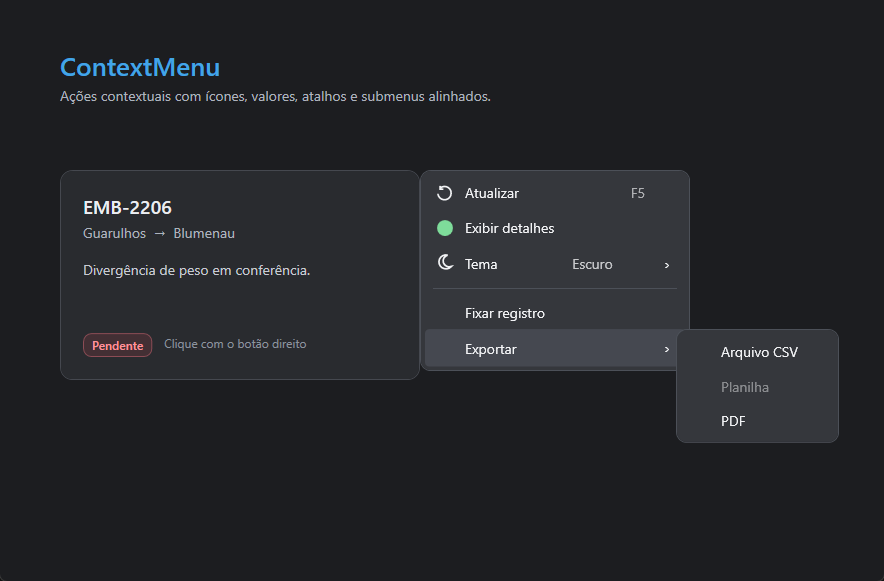
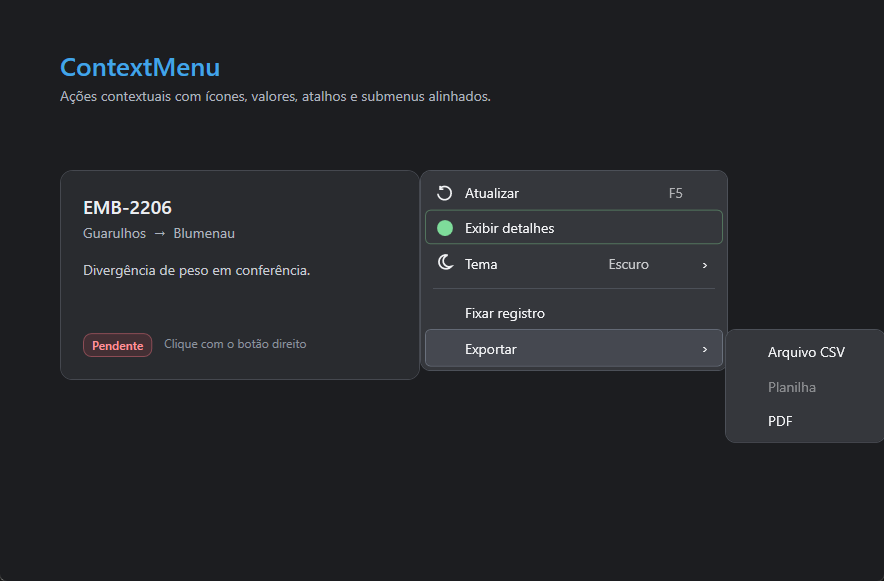
chore: prepara versão 0.4.0-preview.4

Changed region(s): [[0.7636, 0.2788, 1.0, 0.7745], [0.6414, 0.4337, 0.733, 0.4647], [0.7025, 0.3098, 0.733, 0.3408]]

diff --git a/samples/DLH.Controls.Wpf.Screenshots/ContextMenuScreenshotWindow.xaml.cs b/samples/DLH.Controls.Wpf.Screenshots/ContextMenuScreenshotWindow.xaml.cs
@@ -10,14 +10,28 @@ public partial class ContextMenuScreenshotWindow : Window
     {
         InitializeComponent();
         Loaded += OnLoaded;
+        Activated += (_, _) => Dispatcher.BeginInvoke(OpenMenu, DispatcherPriority.ContextIdle);
     }
 
-    private void OnLoaded(object? sender, RoutedEventArgs e)
+    private void OnLoaded(object? sender, RoutedEventArgs e) => OpenMenu();
+
+    private void OpenMenu()
     {
+        Menu.CollapseAll();
         Menu.PlacementTarget = TargetArea;
         Menu.Placement = System.Windows.Controls.Primitives.PlacementMode.Right;
         Menu.IsOpen = true;
-        Dispatcher.BeginInvoke(() => ExportItem.IsSubmenuOpen = true, DispatcherPriority.Loaded);
+        var submenuTimer = new DispatcherTimer(DispatcherPriority.Loaded)
+        {
+            Interval = TimeSpan.FromMilliseconds(350)
+        };
+        submenuTimer.Tick += (_, _) =>
+        {
+            submenuTimer.Stop();
+            Menu.CollapseAll();
+            ExportItem.IsSubmenuOpen = true;
+        };
+        submenuTimer.Start();
     }
 }
 

diff --git a/docs/releases/RELEASE-v0.4.0-preview.4.md b/docs/releases/RELEASE-v0.4.0-preview.4.md
@@ -1,0 +1,37 @@
+# Release v0.4.0-preview.4 — DLH.Controls
+
+- **Data:** 14 de setembro de 2026
+- **Tipo:** pré-lançamento
+- **Homologação visual:** concluída
+
+## Repositório e publicação
+
+| Item | Valor |
+|---|---|
+| Linha oficial | `main` |
+| Tag | [`v0.4.0-preview.4`](https://github.com/LeonardoHessel/DLH.Controls/releases/tag/v0.4.0-preview.4) |
+| NuGet | [`DLH.Controls.Wpf` 0.4.0-preview.4](https://www.nuget.org/packages/DLH.Controls.Wpf/0.4.0-preview.4) |
+| Publicação | GitHub Release com Trusted Publishing do NuGet |
+
+## Alterações incorporadas
+
+- Repositório reorganizado com documentação separada por controles, guias, desenvolvimento, releases e planos históricos.
+- Modelos de issue e pull request, código de conduta, responsáveis, Dependabot e guia operacional do GitHub adicionados.
+- Versão do pacote centralizada e conferida automaticamente contra a tag de publicação.
+- Validação ampliada para consumir o pacote em duas aplicações WPF isoladas: uma programática e outra construída em XAML e renderizada em uma janela real.
+- Correção do alinhamento do cabeçalho, da barra vertical e das regiões fixadas do `DataGridView`, com divisórias de 1 px.
+- Rolagem do `DataGridView` otimizada quando existem colunas fixadas, com controles demonstrativos para suavização, passo e duração.
+- Bordas dos itens do `ContextMenu` configuráveis nos estados normal, destacado e marcado.
+- Larguras independentes para as cinco colunas do menu principal e dos submenus.
+- Direção e deslocamentos horizontal e vertical dos submenus configuráveis.
+- Capturas do `TabControl`, `DataGridView`, `ScrollBar` e `ContextMenu` atualizadas após a homologação visual.
+
+## Validação
+
+- Compilação Release: concluída sem avisos nem erros.
+- Testes automatizados locais: **73/73** aprovados.
+- Comparações visuais: aprovadas.
+- Pacote gerado: `DLH.Controls.Wpf.0.4.0-preview.4.nupkg`.
+- Consumo programático isolado: aprovado.
+- Consumo em XAML com renderização de janela: aprovado em escala DPI 1,00.
+- Publicação automatizada pelo workflow `Publish NuGet release` após a criação deste pré-lançamento.

diff --git a/README.md b/README.md
@@ -40,19 +40,19 @@
 ### CLI do .NET
 
 ```powershell
-dotnet add package DLH.Controls.Wpf --version 0.4.0-preview.3
+dotnet add package DLH.Controls.Wpf --version 0.4.0-preview.4
 ```
 
 ### Package Manager do Visual Studio
 
 ```powershell
-Install-Package DLH.Controls.Wpf -Version 0.4.0-preview.3
+Install-Package DLH.Controls.Wpf -Version 0.4.0-preview.4
 ```
 
 ### PackageReference
 
 ```xml
-<PackageReference Include="DLH.Controls.Wpf" Version="0.4.0-preview.3" />
+<PackageReference Include="DLH.Controls.Wpf" Version="0.4.0-preview.4" />
 ```
 
 ### Paket CLI
@@ -60,14 +60,14 @@ Install-Package DLH.Controls.Wpf -Version 0.4.0-preview.3
 Adicione diretamente ao projeto:
 
 ```powershell
-paket add DLH.Controls.Wpf --version 0.4.0-preview.3 --project caminho/SeuProjeto.csproj
+paket add DLH.Controls.Wpf --version 0.4.0-preview.4 --project caminho/SeuProjeto.csproj
 ```
 
 Ou inclua no arquivo `paket.dependencies`:
 
 ```text
 source https://api.nuget.org/v3/index.json
-nuget DLH.Controls.Wpf 0.4.0-preview.3
+nuget DLH.Controls.Wpf 0.4.0-preview.4
 ```
 
 Adicione `DLH.Controls.Wpf` ao `paket.references` do projeto e restaure:
@@ -188,6 +188,6 @@ Uso comercial, modificação e redistribuição são permitidos conforme suas co
 ## Pacote
 
 - [DLH.Controls.Wpf no NuGet](https://www.nuget.org/packages/DLH.Controls.Wpf)
-- Versão atual: `0.4.0-preview.3`
+- Versão atual: `0.4.0-preview.4`
 - Plataforma: Windows
 - Framework: .NET 10 / WPF

diff --git a/docs/development/packaging.md b/docs/development/packaging.md
@@ -1,6 +1,6 @@
 # Preparação NuGet
 
-ID: `DLH.Controls.Wpf`. Versão atual: `0.2.0-preview.2`. Alterações posteriores permanecem em desenvolvimento até a definição de uma nova versão.
+ID: `DLH.Controls.Wpf`. Versão atual: `0.4.0-preview.4`. Alterações posteriores permanecem em desenvolvimento até a definição de uma nova versão.
 A solução tem um único projeto empacotável; novos componentes entram no mesmo projeto em `Controls/NomeDoComponente`.
 
 O pacote inclui DLL, recursos WPF compilados , README e LICENSE.txt. Não inclui demonstração, ícones de exemplo ou testes.

diff --git a/docs/Manual.md b/docs/Manual.md
@@ -21,14 +21,14 @@ Este manual apresenta o uso da biblioteca **DLH Controls** pelo ponto de vista d
 Instale o pacote no projeto WPF:
 
 ```powershell
-dotnet add package DLH.Controls.Wpf --version 0.4.0-preview.3
+dotnet add package DLH.Controls.Wpf --version 0.4.0-preview.4
 ```
 
 Ou adicione a referência diretamente ao arquivo do projeto:
 
 ```xml
 <ItemGroup>
-    <PackageReference Include="DLH.Controls.Wpf" Version="0.4.0-preview.3" />
+    <PackageReference Include="DLH.Controls.Wpf" Version="0.4.0-preview.4" />
 </ItemGroup>
 ```
 

diff --git a/docs/getting-started.md b/docs/getting-started.md
@@ -7,14 +7,14 @@ O pacote `DLH.Controls.Wpf` fornece controles para aplicações WPF em Windows c
 Instale a versão mais recente pelo .NET CLI:
 
 ```powershell
-dotnet add package DLH.Controls.Wpf --version 0.4.0-preview.3
+dotnet add package DLH.Controls.Wpf --version 0.4.0-preview.4
 ```
 
 Ou use uma referência no projeto:
 
 ```xml
 <ItemGroup>
-    <PackageReference Include="DLH.Controls.Wpf" Version="0.4.0-preview.3" />
+    <PackageReference Include="DLH.Controls.Wpf" Version="0.4.0-preview.4" />
 </ItemGroup>
 ```
 

diff --git a/CHANGELOG.md b/CHANGELOG.md
@@ -2,6 +2,10 @@
 
 ## Não publicado
 
+Nenhuma alteração registrada.
+
+## 0.4.0-preview.4 — 14 de setembro de 2026
+
 - README reduzido e reorganizado como apresentação do pacote, com navegação para os guias detalhados.
 - Documentação separada entre controles, guias, processos de desenvolvimento, releases e planos históricos.
 - Páginas de compatibilidade mantidas nos endereços antigos para preservar links publicados.
